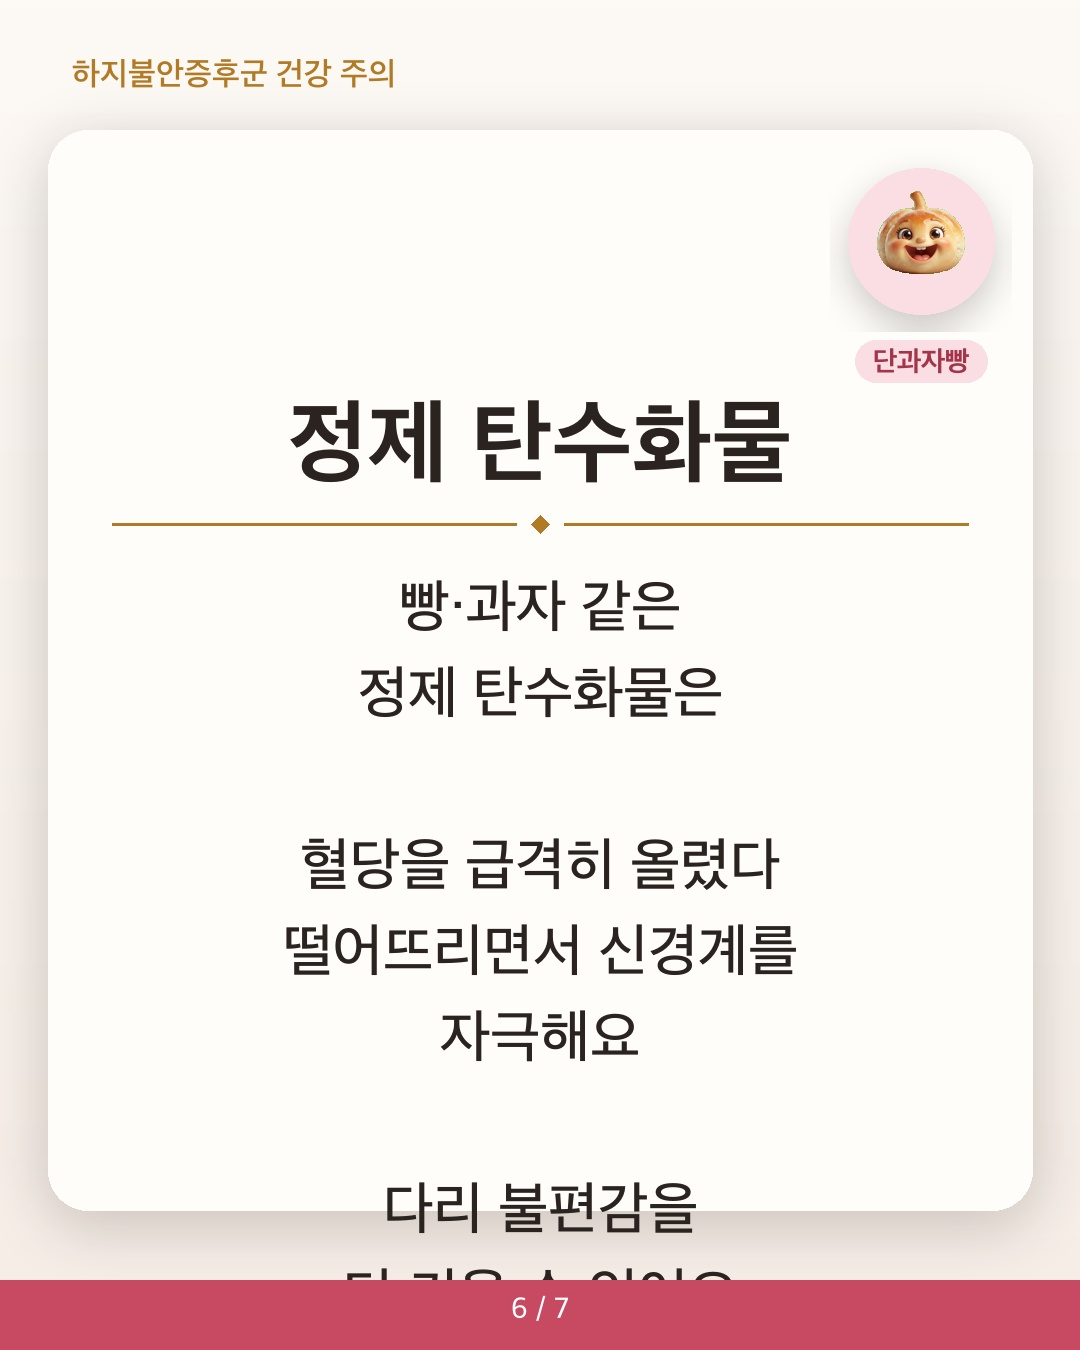
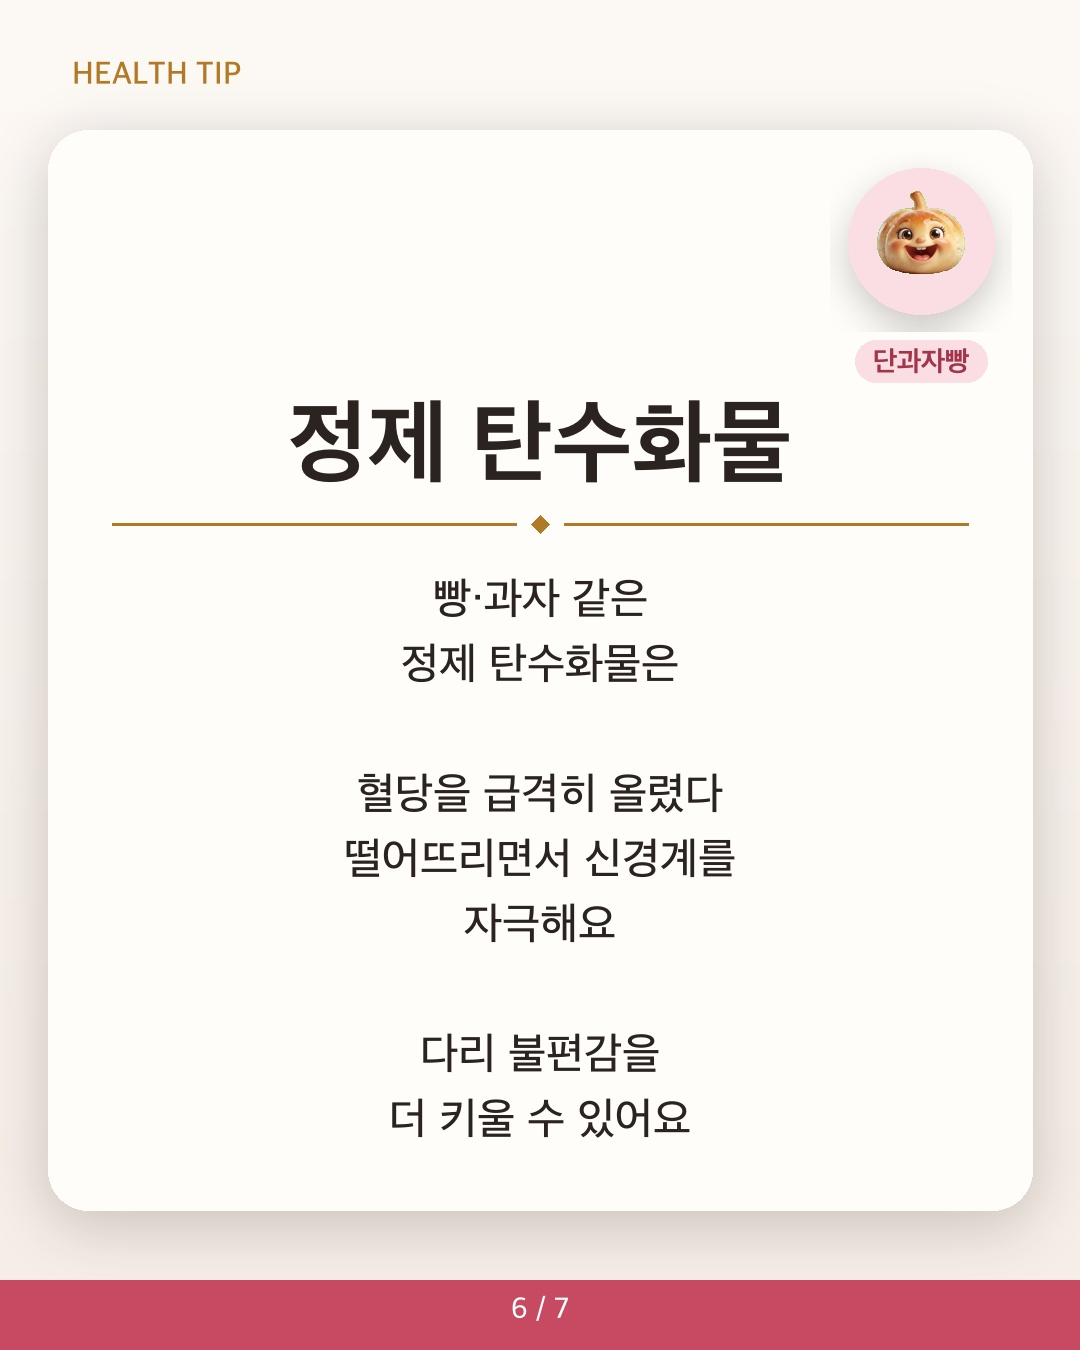
fix(card_news): 본문 줄 수 많으면 패널 밖으로 잘리던 문제 수정
make_fact_card의 본문(body_lines)과 make_closing의 tip_lines가 항상
고정 폰트 크기·줄간격으로 그려져서, 줄 수가 많은 topic(예: 수면_2/구
하지불안증후군_1의 "정제 탄수화물" 카드 — 9줄)은 패널 밖으로, 심하면
캔버스 밖까지 잘려나갔다("짤리는거 꽤 많던데" 사용자 리포트, 스크린샷
으로 실측 확인). _fit_single_line_size(제목·한 줄·폭 기준)는 있었지만
여러 줄·높이 기준 대응이 없었음 — _fit_multiline_block_size를 추가해서
총 렌더 높이가 안 맞으면 폰트 크기·줄간격을 비례해서 줄여가며 맞춘다.

수면_2/ko의 실제 깨진 카드 이미지도 재생성해서 교체. 다른 기존 카드
들은 소급 재생성 안 함(프로스펙티브만) — 앞으로 새로 만들거나
재생성하는 카드부터 자동으로 안전해짐.

diff --git a/lib/card_news.py b/lib/card_news.py
@@ -85,6 +85,25 @@ def _draw_centered(draw, lines, y, line_height, size, color, weight="regular"):
     return y
 
 
+def _fit_multiline_block_size(draw, lines, max_height, size, weight, line_gap_ratio, min_size=32, step=2):
+    """WHY(2026-08-12, "짤리는거 꽤 많던데" — 실측 확인: 하지불안증후군_1의
+    "정제 탄수화물" 카드가 9줄짜리 본문인데 항상 고정 58px로 그려서 패널 밖으로
+    잘려나갔다): _fit_single_line_size는 제목(한 줄, 폭 기준)만 커버하고 본문
+    (여러 줄, 높이 기준)엔 대응하는 게 없었다 — 작성자가 줄바꿈은 미리 해서
+    넘기지만(_draw_centered가 폭 줄바꿈을 안 함) 총 줄 수가 몇 줄이 될지는
+    topic마다 다르므로, 총 높이(줄 수 × line_height)가 max_height를 넘으면
+    폰트 크기와 줄간격을 같은 비율로 줄여가며 맞춘다. line_gap_ratio는 기존
+    고정값(86/58≈1.483)에서 유도 — 크기가 바뀌어도 줄간격 비율은 그대로 유지."""
+    while size > min_size:
+        line_height = round(size * line_gap_ratio)
+        total_h = line_height * len(lines)
+        if total_h <= max_height:
+            break
+        size -= step
+    line_height = round(size * line_gap_ratio)
+    return size, line_height
+
+
 def _fit_single_line_size(draw, text, max_width, size, weight, min_size=52, step=4):
     """WHY(2026-08-01): 카드 title(item['name'])은 title/closing headline과 달리
     작성자가 미리 줄바꿈해서 넘기는 게 아니라 한 줄 문자열 그대로 렌더링된다 —
@@ -427,7 +446,12 @@ def make_fact_card(num, name, char_path, body_lines, total, out_path, eyebrow="H
     title_size = _fit_single_line_size(draw, name, title_max_width, 92, "bold")
     y = _draw_centered(draw, [name], y, 0, title_size, INK, "bold")
     _diamond_divider(draw, y + 132)
-    _draw_centered(draw, body_lines, y + 182, 86, 58, INK, "medium")
+    body_y = y + 182
+    body_max_height = panel_box[3] - body_y - 30
+    body_size, body_line_h = _fit_multiline_block_size(
+        draw, body_lines, body_max_height, 58, "medium", line_gap_ratio=86 / 58,
+    )
+    _draw_centered(draw, body_lines, body_y, body_line_h, body_size, INK, "medium")
 
     draw.rectangle([0, H - 70, W, H], fill=ACCENT)
     _draw_centered(draw, [f"{num} / {total}"], H - 58, 0, 30, (255, 255, 255), "medium")
@@ -467,7 +491,12 @@ def make_closing(headline_blocks, tip_lines, char_paths, cta_text, out_path,
         color = INK if i == 0 else ACCENT_DEEP
         y = _draw_centered(draw, block, y, 76, 56, color, weight) + 34
     _diamond_divider(draw, y + 6)
-    _draw_centered(draw, tip_lines, y + 58, 64, 42, INK_SOFT, "regular")
+    tip_y = y + 58
+    tip_max_height = (H - 96) - tip_y - 20
+    tip_size, tip_line_h = _fit_multiline_block_size(
+        draw, tip_lines, tip_max_height, 42, "regular", line_gap_ratio=64 / 42,
+    )
+    _draw_centered(draw, tip_lines, tip_y, tip_line_h, tip_size, INK_SOFT, "regular")
 
     draw.rectangle([0, H - 96, W, H], fill=ACCENT)
     cta_size = _fit_single_line_size(draw, cta_text, W - 160, 34, "semibold", min_size=22)
